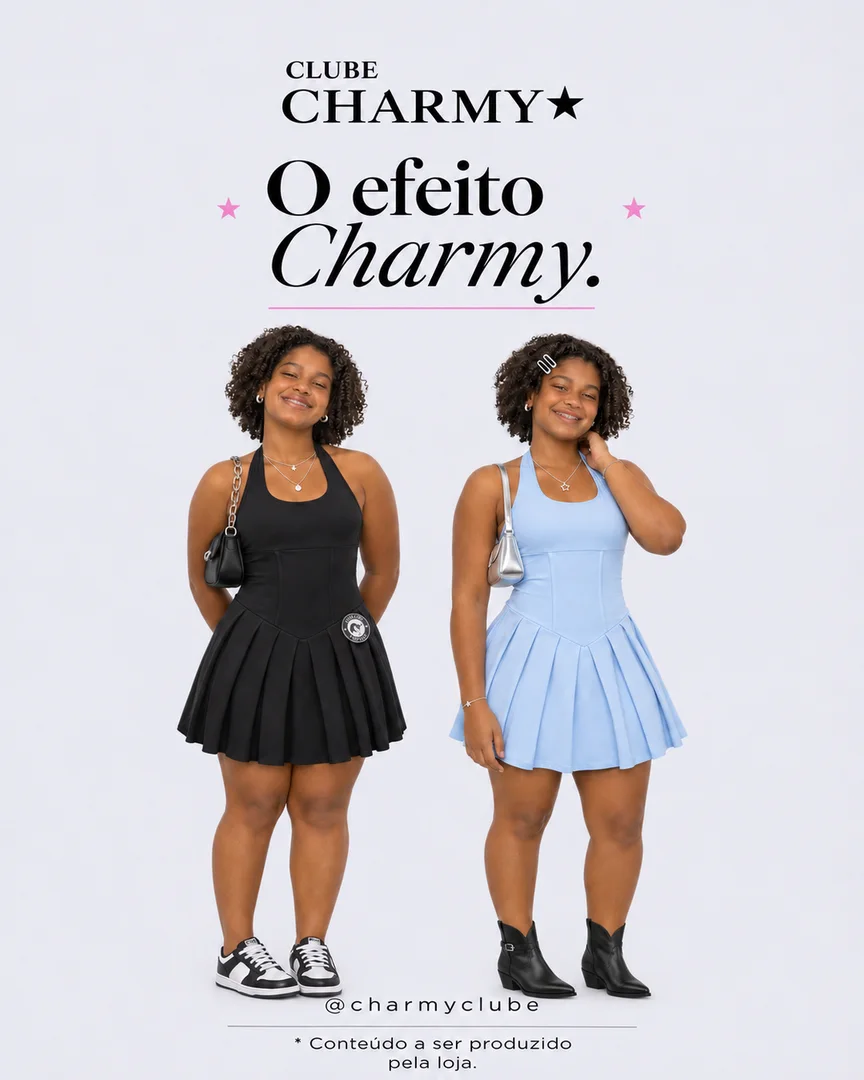
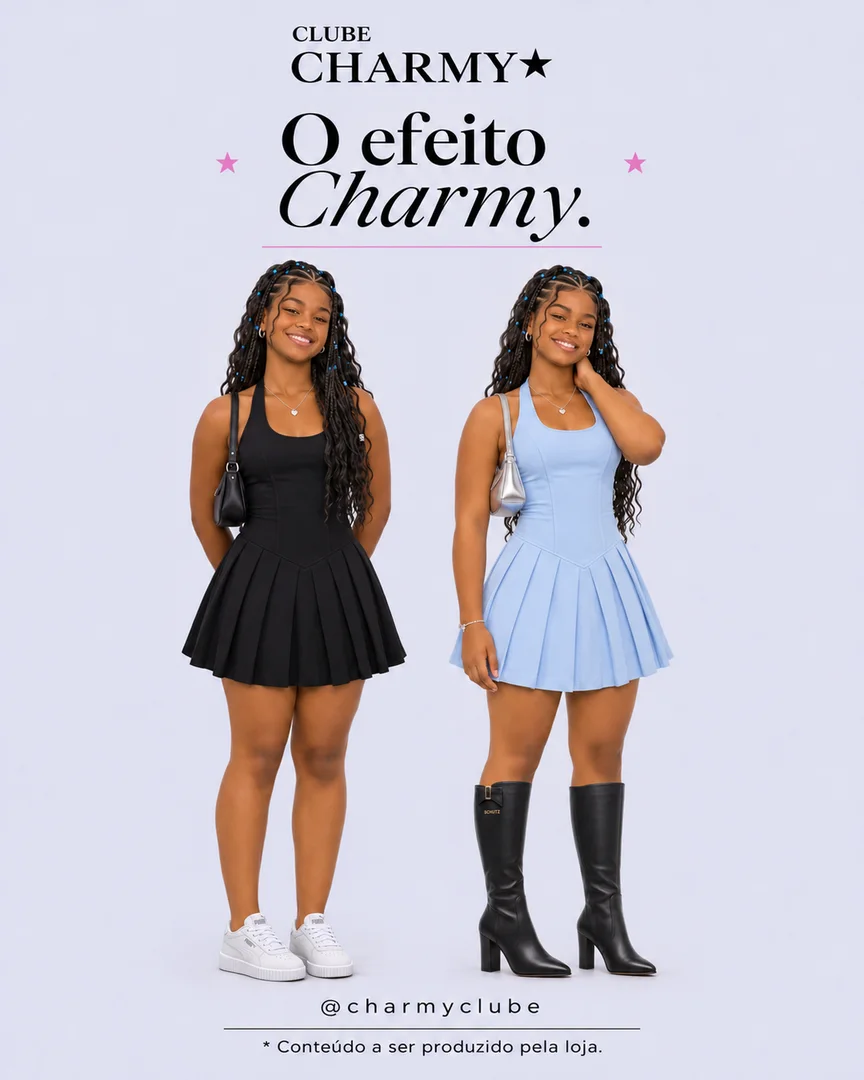
Atualiza capa Efeito Charmy com tranças e novos calçados

diff --git a/src/data/proposed-covers.js b/src/data/proposed-covers.js
@@ -135,7 +135,7 @@ const covers = {
   },
   "roteiros-charmy-v1-6": {
     "src": "src/assets/posts/capas-sugeridas/efeito-charmy.png",
-    "alt": "Capa sugerida de O Efeito Charmy, com modelos adolescentes ilustrativas e roupas da coleção Natal e Ano Novo. Conteúdo a ser produzido pela loja.",
+    "alt": "Capa sugerida de O Efeito Charmy: adolescente de tranças boho em dois looks Lorena, com tênis Puma branco e bota preta de cano alto com salto. Conteúdo a ser produzido pela loja.",
     "title": "O Efeito Charmy",
     "products": [
       {
